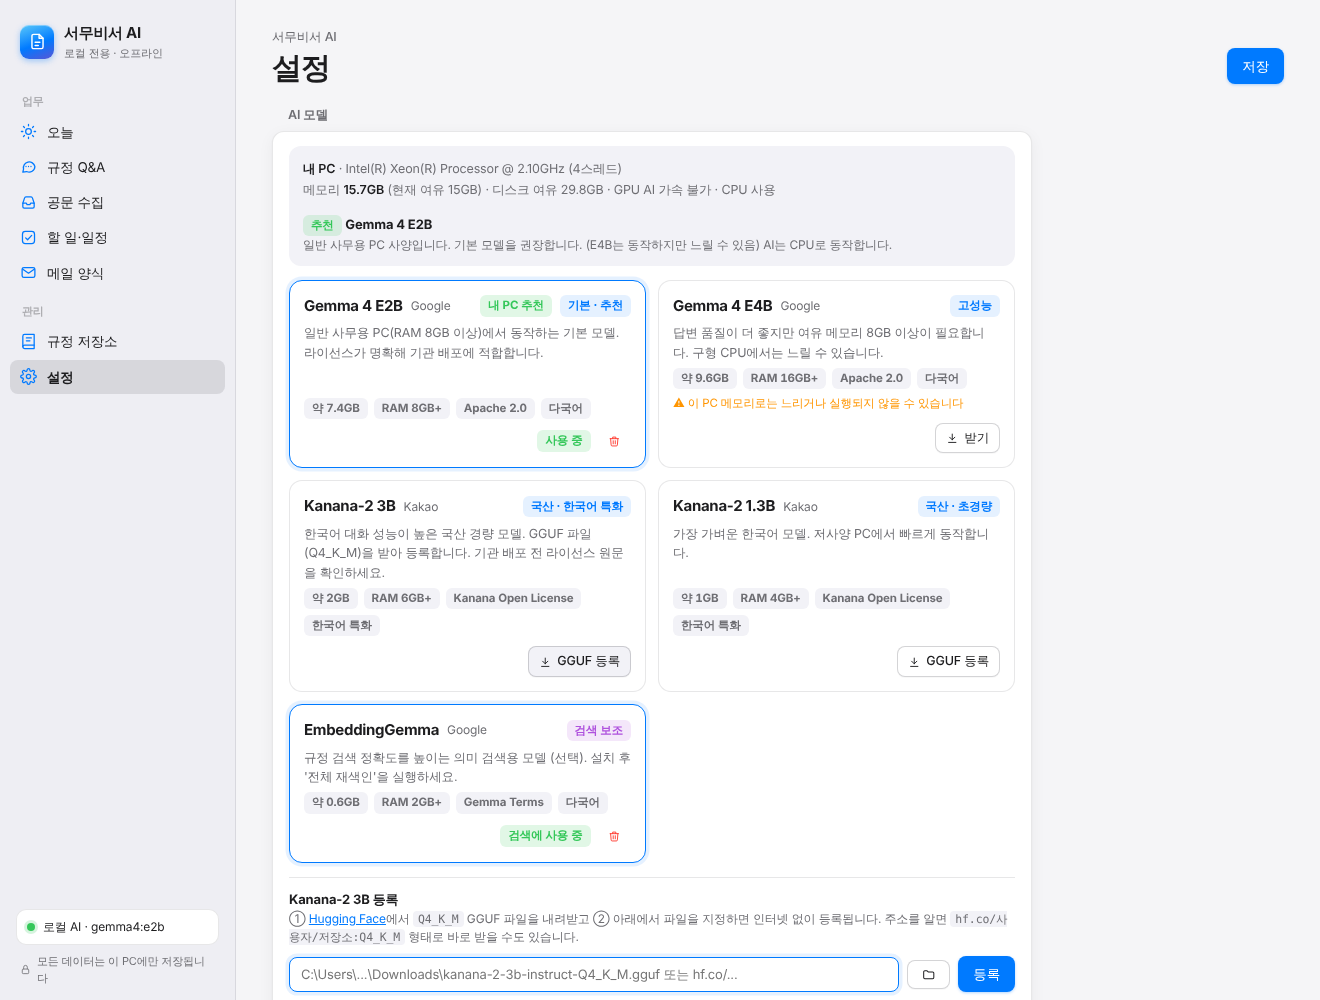
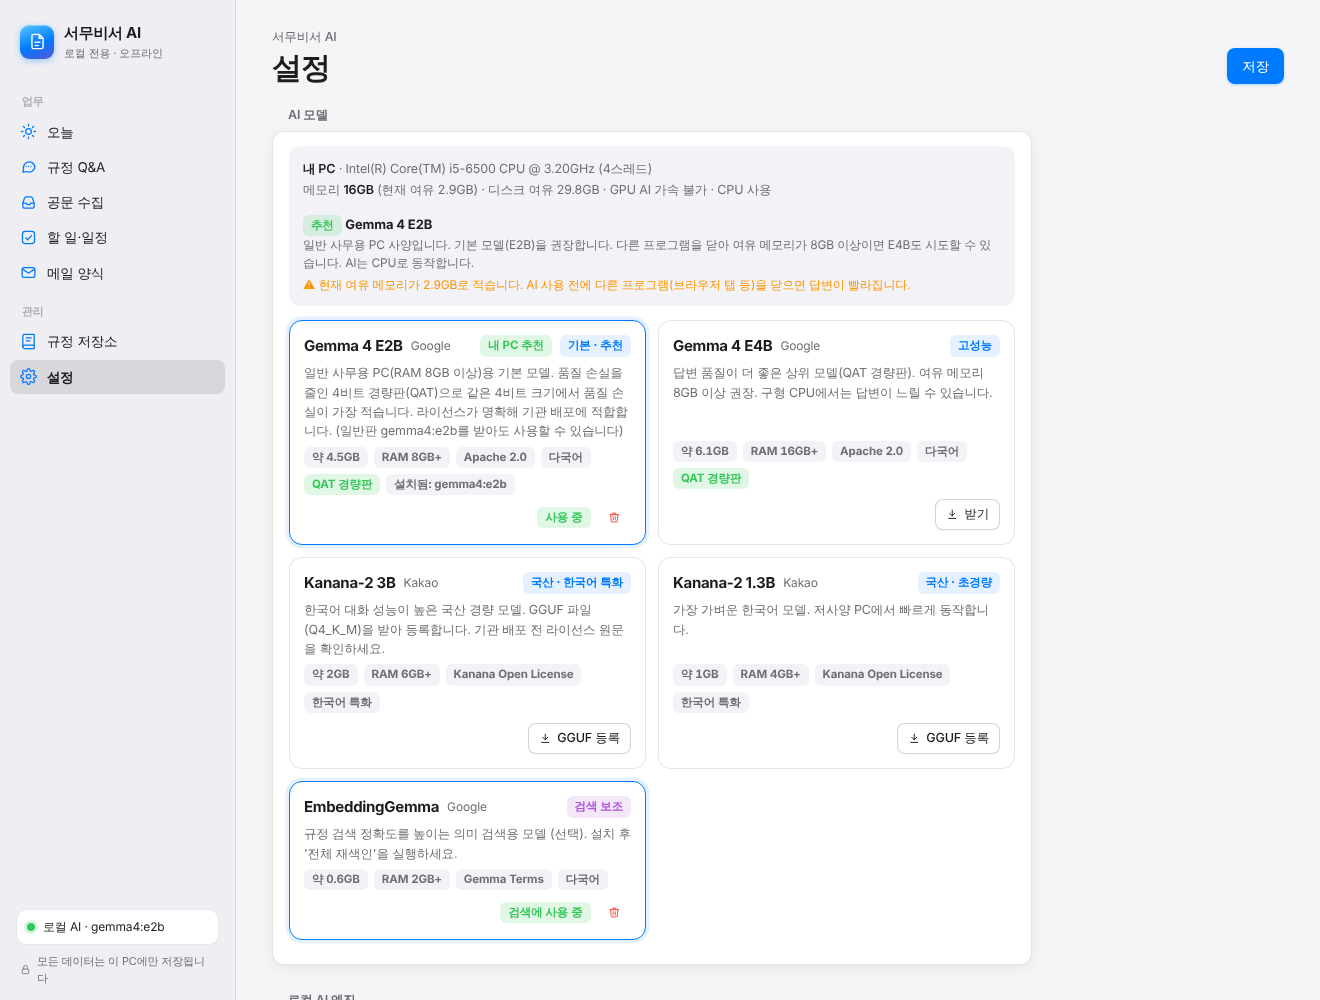
모델 카드: QAT판·일반판을 같은 카드로 인식, 추천을 전체 메모리 기준으로 변경
- gemma4:e2b(일반판)만 받아도 E2B 카드에 설치됨/사용 가능으로 표시
- 순간 여유 메모리 대신 전체 메모리로 추천하고, 여유 메모리 부족은 경고로 표시
- E2B 표시 용량을 실제 다운로드 크기(약 4.5GB)에 맞게 수정

Claude-Session: https://claude.ai/code/session_01SUQtD2TztXyn9SN71LrSYu

diff --git a/seomu/ui/app.js b/seomu/ui/app.js
@@ -492,7 +492,8 @@ async function loadModels() {
   $("#pc-box").innerHTML = `<div class="specs"><b>내 PC</b> · ${esc(si.cpu)} (${si.cores}스레드)<br>
     메모리 <b>${si.ram_total_gb}GB</b> (현재 여유 ${si.ram_avail_gb}GB) · 디스크 여유 ${si.disk_free_gb}GB ·
     GPU ${si.gpu ? esc(si.gpu.split(",")[0]) + (si.gpu_usable ? " (AI 가속 가능)" : " (AI 가속 불가)") : "AI 가속 불가 · CPU 사용"}</div>
-    <div class="rec"><span class="badge green">추천</span> <b>${esc(recName)}</b><div class="muted small">${esc(rec.reason)}</div></div>`;
+    <div class="rec"><span class="badge green">추천</span> <b>${esc(recName)}</b><div class="muted small">${esc(rec.reason)}</div>
+    ${rec.warn ? `<div class="small" style="color:var(--orange);margin-top:4px">⚠ ${esc(rec.warn)}</div>` : ""}</div>`;
   if (!c.engine_ok) {
     $("#model-grid").innerHTML = `<div class="muted">로컬 AI 엔진(Ollama)이 실행 중이 아닙니다. Ollama를 설치·실행한 뒤 '다시 확인'을 눌러 주세요.<br><span class="small">${esc(c.engine_error)}</span></div>`;
     return;
@@ -503,12 +504,13 @@ async function loadModels() {
         ${m.id === rec.model ? '<span class="badge green">내 PC 추천</span>' : ""}<span class="badge ${m.kind === "embed" ? "purple" : "blue"}">${esc(m.badge)}</span></div>
       <div class="desc">${esc(m.desc)}</div>
       <div class="meta"><span class="badge">약 ${m.download_gb}GB</span><span class="badge">RAM ${m.min_ram_gb}GB+</span>
-        <span class="badge">${esc(m.license)}</span><span class="badge">${esc(m.korean)}</span>${m.variant ? `<span class="badge green">${esc(m.variant)}</span>` : ""}</div>
+        <span class="badge">${esc(m.license)}</span><span class="badge">${esc(m.korean)}</span>${m.variant ? `<span class="badge green">${esc(m.variant)}</span>` : ""}
+        ${m.installed && m.installed_id !== m.id && m.installed_id !== m.id + ":latest" ? `<span class="badge">설치됨: ${esc(m.installed_id)}</span>` : ""}</div>
       ${m.fits ? "" : '<div class="warn">⚠ 이 PC 메모리로는 느리거나 실행되지 않을 수 있습니다</div>'}
       <div class="actions">
         ${m.installed
-          ? (m.active ? `<span class="badge green">${m.kind === "embed" ? "검색에 사용 중" : "사용 중"}</span>` : `<button class="btn primary sm" data-use="${esc(m.id)}">사용</button>`) +
-            `<button class="btn ghost sm danger" data-mdel="${esc(m.id)}" title="모델 삭제">${svg("trash")}</button>`
+          ? (m.active ? `<span class="badge green">${m.kind === "embed" ? "검색에 사용 중" : "사용 중"}</span>` : `<button class="btn primary sm" data-use="${esc(m.installed_id)}">사용</button>`) +
+            `<button class="btn ghost sm danger" data-mdel="${esc(m.installed_id)}" title="${esc(m.installed_id)} 삭제">${svg("trash")}</button>`
           : m.install === "gguf"
             ? `<button class="btn sm" data-gguf="${esc(m.id)}">${svg("download")} GGUF 등록</button>`
             : `<button class="btn sm" data-pull="${esc(m.id)}">${svg("download")} 받기</button>`}

diff --git a/seomu/models.py b/seomu/models.py
@@ -13,15 +13,18 @@ import sys
 CATALOG: list[dict] = [
     {
         "id": "gemma4:e2b-it-qat", "name": "Gemma 4 E2B", "vendor": "Google", "kind": "chat",
-        "install": "pull", "download_gb": 4.3, "min_ram_gb": 8, "license": "Apache 2.0",
+        "install": "pull", "download_gb": 4.5, "min_ram_gb": 8, "license": "Apache 2.0",
         "badge": "기본 · 추천", "korean": "다국어", "variant": "QAT 경량판",
+        "alt": ["gemma4:e2b", "gemma4:e2b-it-q4_K_M"],
         "desc": "일반 사무용 PC(RAM 8GB 이상)용 기본 모델. 품질 손실을 줄인 4비트 경량판(QAT)으로 "
-                "원본보다 약 40% 작고 빠릅니다. 라이선스가 명확해 기관 배포에 적합합니다.",
+                "같은 4비트 크기에서 품질 손실이 가장 적습니다. 라이선스가 명확해 기관 배포에 적합합니다. "
+                "(일반판 gemma4:e2b를 받아도 사용할 수 있습니다)",
     },
     {
         "id": "gemma4:e4b-it-qat", "name": "Gemma 4 E4B", "vendor": "Google", "kind": "chat",
         "install": "pull", "download_gb": 6.1, "min_ram_gb": 16, "license": "Apache 2.0",
         "badge": "고성능", "korean": "다국어", "variant": "QAT 경량판",
+        "alt": ["gemma4:e4b", "gemma4:latest", "gemma4:e4b-it-q4_K_M"],
         "desc": "답변 품질이 더 좋은 상위 모델(QAT 경량판). 여유 메모리 8GB 이상 권장. "
                 "구형 CPU에서는 답변이 느릴 수 있습니다.",
     },
@@ -53,9 +56,27 @@ def find(model_id: str) -> dict | None:
     return next((m for m in CATALOG if m["id"] == model_id), None)
 
 
+def names(entry: dict) -> list[str]:
+    """카드 하나에 해당하는 모든 모델 이름 (QAT판·일반판 등 같은 계열 포함)."""
+    out = []
+    for n in [entry["id"], *entry.get("alt", [])]:
+        out.append(n)
+        if ":" not in n:
+            out.append(n + ":latest")
+    return out
+
+
+def installed_id(entry: dict, installed: list[str]) -> str:
+    """설치된 이름을 돌려준다 (기본 이름 우선). 없으면 빈 문자열."""
+    for n in names(entry):
+        if n in installed:
+            return n
+    return ""
+
+
 def is_installed(model_id: str, installed: list[str]) -> bool:
-    base = model_id if ":" in model_id else model_id + ":latest"
-    return any(i == model_id or i == base for i in installed)
+    entry = find(model_id) or {"id": model_id}
+    return bool(installed_id(entry, installed))
 
 
 # ---------------------------------------------------------------- PC 사양
@@ -131,18 +152,26 @@ def system_info() -> dict:
 
 
 def recommend(info: dict) -> dict:
-    """PC 사양으로 답변 모델을 추천한다."""
+    """PC 사양으로 답변 모델을 추천한다.
+
+    순간 여유 메모리는 다운로드·다른 프로그램에 따라 크게 바뀌므로 추천은 전체 메모리로 정하고,
+    여유 메모리는 경고에만 쓴다.
+    """
     total, avail = info.get("ram_total_gb", 0), info.get("ram_avail_gb", 0)
-    if info.get("gpu_usable") or (total >= 16 and avail >= 9):
+    if info.get("gpu_usable") or total >= 24:
         mid, why = "gemma4:e4b-it-qat", "메모리가 넉넉해 고성능 모델(E4B)을 쓸 수 있습니다."
-    elif total >= 8 and avail >= 5:
+    elif total >= 7.5:
         mid, why = "gemma4:e2b-it-qat", "일반 사무용 PC 사양입니다. 기본 모델(E2B)을 권장합니다."
         if total >= 15:
             why += " 다른 프로그램을 닫아 여유 메모리가 8GB 이상이면 E4B도 시도할 수 있습니다."
-    elif total >= 6:
-        mid, why = "kanana-2:3b", "여유 메모리가 적어 가벼운 한국어 모델을 권장합니다."
+    elif total >= 5.5:
+        mid, why = "kanana-2:3b", "메모리가 적어 가벼운 한국어 모델을 권장합니다."
     else:
         mid, why = "kanana-2:1.3b", "저사양 PC입니다. 초경량 모델을 권장합니다."
     if not info.get("gpu_usable"):
         why += " AI는 CPU로 동작합니다."
-    return {"model": mid, "reason": why}
+    warn = ""
+    if total and avail < 4:
+        warn = (f"현재 여유 메모리가 {avail}GB로 적습니다. AI 사용 전에 다른 프로그램(브라우저 탭 등)을 "
+                "닫으면 답변이 빨라집니다.")
+    return {"model": mid, "reason": why, "warn": warn}

diff --git a/tests/test_core.py b/tests/test_core.py
@@ -142,7 +142,19 @@ def test_html_to_text_skips_script():
 
 def test_recommend_by_spec():
     from seomu.models import recommend
-    assert recommend({"ram_total_gb": 16, "ram_avail_gb": 7, "gpu_usable": False})["model"] == "gemma4:e2b-it-qat"
-    assert recommend({"ram_total_gb": 16, "ram_avail_gb": 10, "gpu_usable": False})["model"] == "gemma4:e4b-it-qat"
-    assert recommend({"ram_total_gb": 8, "ram_avail_gb": 3, "gpu_usable": False})["model"] == "kanana-2:3b"
+    r = recommend({"ram_total_gb": 16, "ram_avail_gb": 2.9, "gpu_usable": False})
+    assert r["model"] == "gemma4:e2b-it-qat" and r["warn"]          # 여유 메모리가 순간적으로 적어도 E2B
+    assert recommend({"ram_total_gb": 16, "ram_avail_gb": 10, "gpu_usable": False})["model"] == "gemma4:e2b-it-qat"
+    assert recommend({"ram_total_gb": 32, "ram_avail_gb": 20, "gpu_usable": False})["model"] == "gemma4:e4b-it-qat"
+    assert recommend({"ram_total_gb": 8, "ram_avail_gb": 3, "gpu_usable": False})["model"] == "gemma4:e2b-it-qat"
+    assert recommend({"ram_total_gb": 6, "ram_avail_gb": 3, "gpu_usable": False})["model"] == "kanana-2:3b"
     assert recommend({"ram_total_gb": 4, "ram_avail_gb": 2, "gpu_usable": False})["model"] == "kanana-2:1.3b"
+
+
+def test_model_family_alias():
+    from seomu.models import find, installed_id, is_installed
+    e2b = find("gemma4:e2b-it-qat")
+    assert installed_id(e2b, ["gemma4:e2b", "embeddinggemma:latest"]) == "gemma4:e2b"
+    assert installed_id(e2b, ["gemma4:e2b", "gemma4:e2b-it-qat"]) == "gemma4:e2b-it-qat"
+    assert is_installed("embeddinggemma", ["embeddinggemma:latest"])
+    assert not is_installed("gemma4:e4b-it-qat", ["gemma4:e2b"])

diff --git a/seomu/api.py b/seomu/api.py
@@ -141,15 +141,16 @@ class Api:
         except LLMError:
             active_chat = s.chat_model
         active_embed = client.pick_embed_model(s.embed_model) if st["ok"] else s.embed_model
-        items = []
+        items, known = [], set()
         for m in model_catalog.CATALOG:
             d = dict(m)
-            d["installed"] = model_catalog.is_installed(m["id"], installed)
-            d["active"] = m["id"] in (active_chat, active_embed) or \
-                (m["id"] + ":latest") in (active_chat, active_embed)
+            all_names = model_catalog.names(m)
+            known.update(all_names)
+            d["installed_id"] = model_catalog.installed_id(m, installed)
+            d["installed"] = bool(d["installed_id"])
+            d["active"] = any(n in (active_chat, active_embed) for n in all_names)
             d["fits"] = info["ram_total_gb"] == 0 or info["ram_total_gb"] >= m["min_ram_gb"] * 0.9
             items.append(d)
-        known = {m["id"] for m in model_catalog.CATALOG} | {m["id"] + ":latest" for m in model_catalog.CATALOG}
         return {"engine_ok": st["ok"], "engine_error": st.get("error", ""), "models": items,
                 "others": [m for m in installed if m not in known], "active_chat": active_chat,
                 "active_embed": active_embed, "system": info, "recommend": model_catalog.recommend(info)}

diff --git a/tests/test_api.py b/tests/test_api.py
@@ -139,6 +139,15 @@ def test_model_management(api, tmp_path):
     assert {"gemma4:e2b-it-qat", "gemma4:e4b-it-qat", "kanana-2:3b", "kanana-2:1.3b"} <= set(ids)
     assert cat["others"] == ["gemma3:4b"]
 
+    # 일반판(gemma4:e2b)만 받아도 E2B 카드가 설치됨으로 표시되고 그 이름으로 사용
+    FakeOllama.installed.append("gemma4:e2b")
+    card = next(m for m in api.model_catalog()["models"] if m["id"] == "gemma4:e2b-it-qat")
+    assert card["installed"] and card["installed_id"] == "gemma4:e2b"
+    assert "gemma4:e2b" not in api.model_catalog()["others"]
+    assert api.use_model("gemma4:e2b")["active_chat"] == "gemma4:e2b"
+    assert next(m for m in api.model_catalog()["models"] if m["id"] == "gemma4:e2b-it-qat")["active"]
+    FakeOllama.installed.remove("gemma4:e2b")
+
     cat = wait(api, api.pull_model("gemma4:e2b-it-qat"))
     assert next(m for m in cat["models"] if m["id"] == "gemma4:e2b-it-qat")["installed"]
     cat = api.use_model("gemma4:e2b-it-qat")

diff --git a/README.md b/README.md
@@ -71,7 +71,7 @@
 
 | 모델 | 특징 | 받는 방법 |
 |---|---|---|
-| **Gemma 4 E2B** (Google) | 기본 모델. 사무용 PC(RAM 8GB+)용 QAT 경량판(약 4.3GB), Apache 2.0 | 앱에서 [받기] |
+| **Gemma 4 E2B** (Google) | 기본 모델. 사무용 PC(RAM 8GB+)용 QAT 경량판(약 4.5GB), Apache 2.0 | 앱에서 [받기] |
 | **Gemma 4 E4B** (Google) | 고성능 QAT 경량판(약 6.1GB). 여유 메모리가 많은 PC용 | 앱에서 [받기] |
 | **Kanana-2 3B / 1.3B** (Kakao) | 국산 한국어 특화 경량 모델 | GGUF 파일을 내려받아 [GGUF 등록] (인터넷 없이 등록 가능) |
 | **EmbeddingGemma** (Google) | 규정 검색 정확도 향상 (선택) | 앱에서 [받기] |
